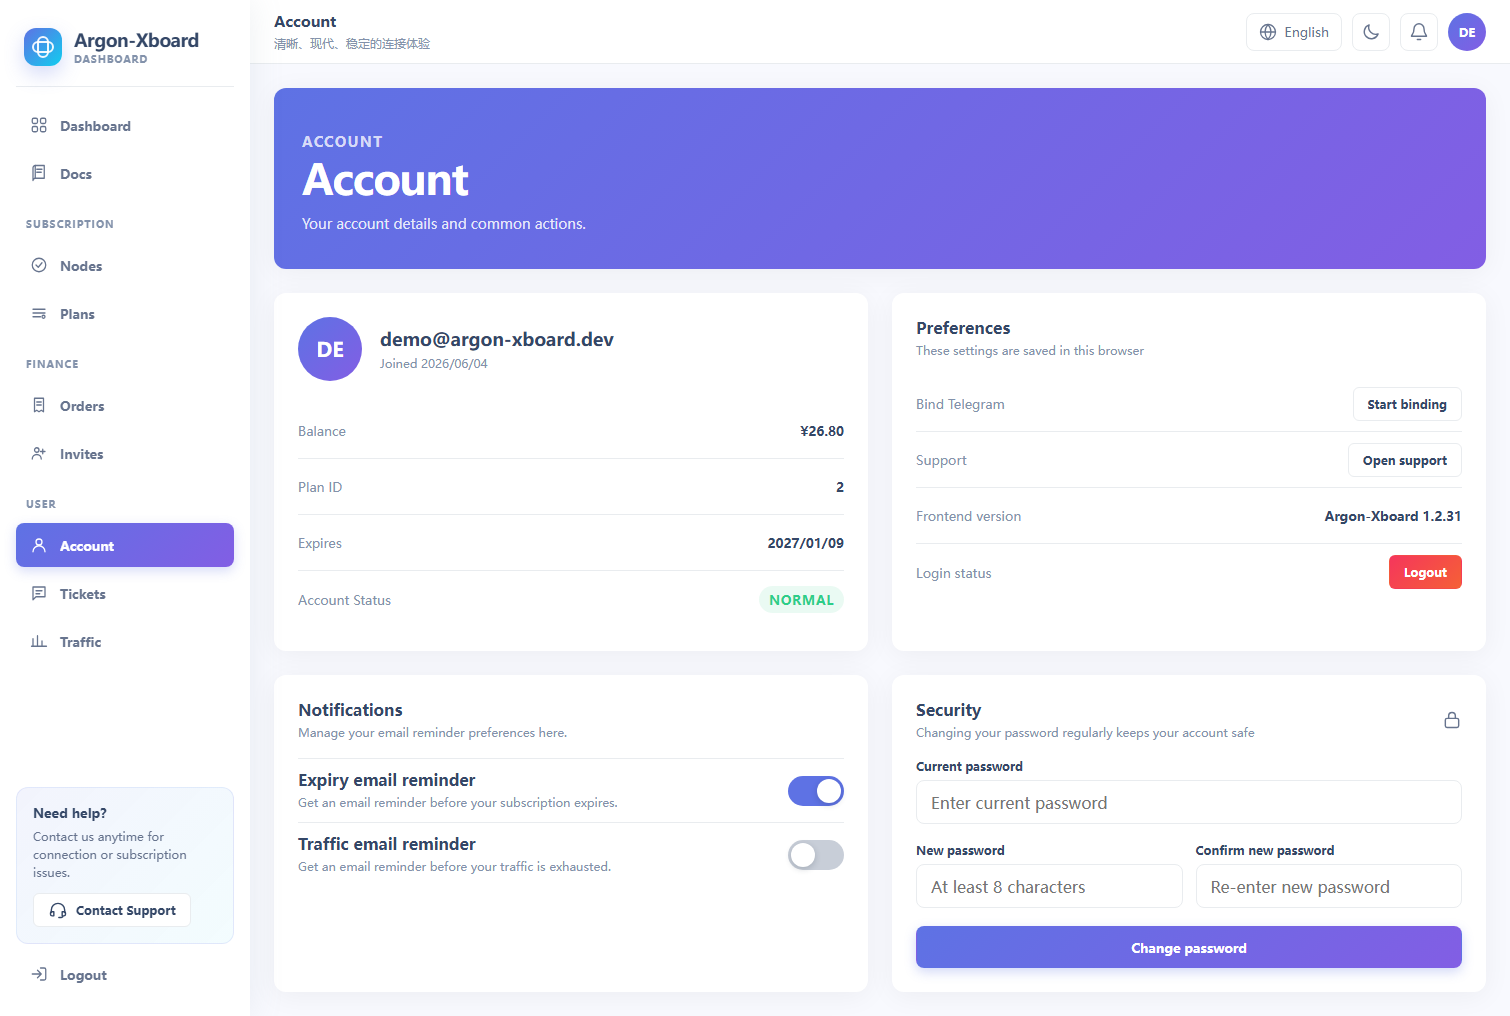
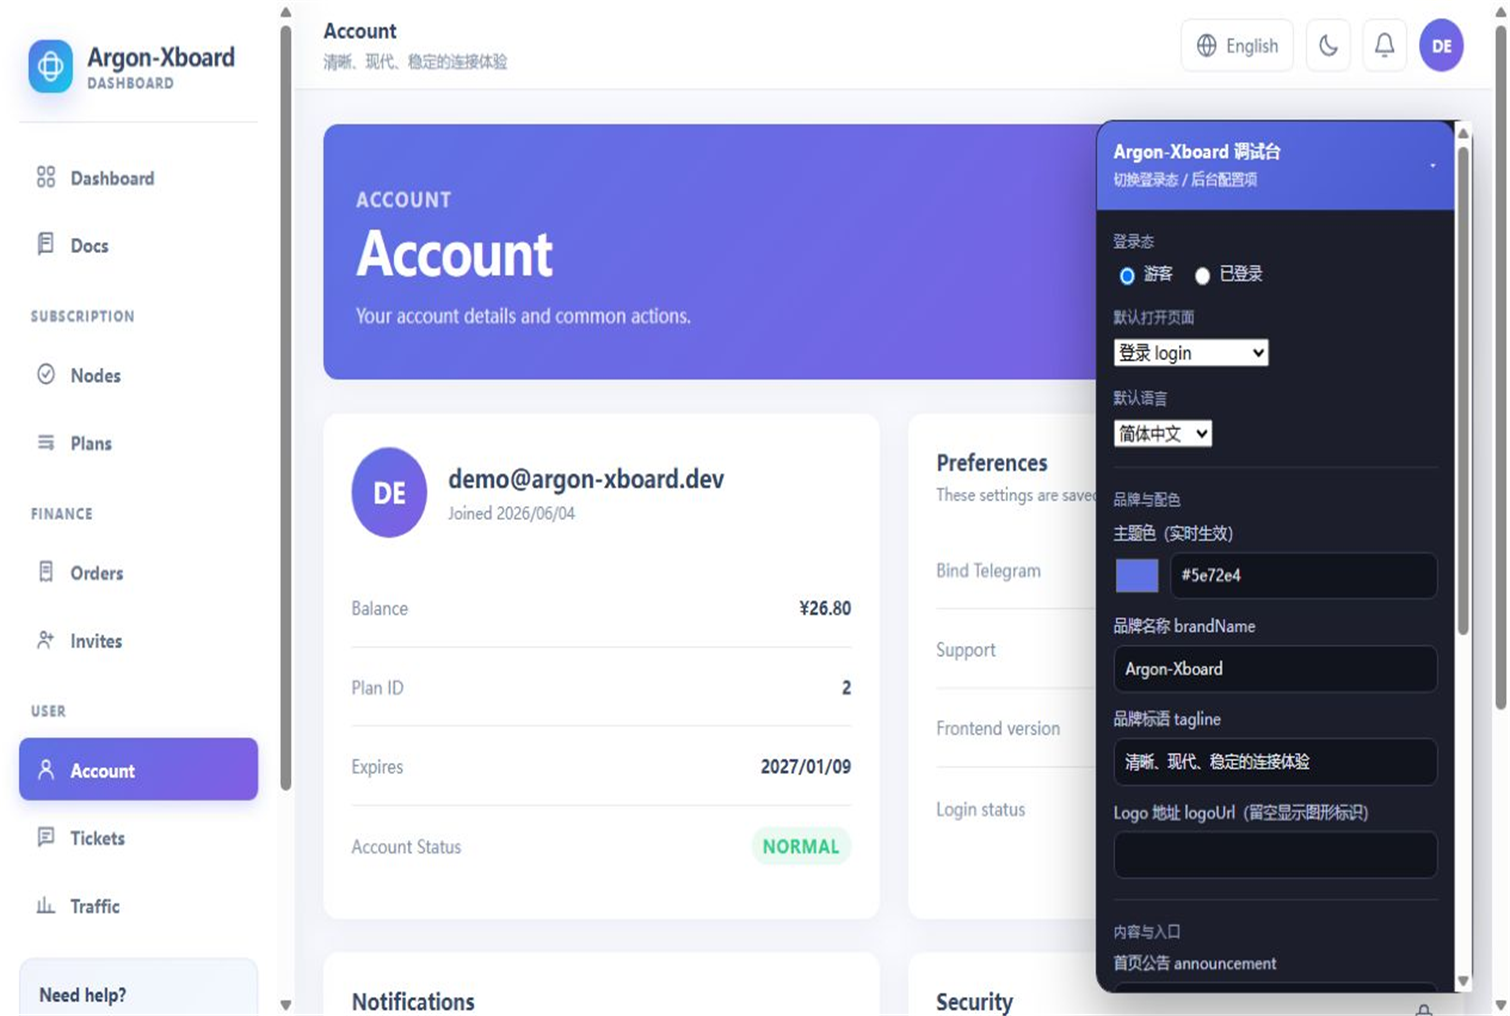
fix(theme): read support group from user config

diff --git a/assets/theme.js b/assets/theme.js
@@ -266,7 +266,7 @@
   const config = Object.assign({
     title: 'Xboard', brandName: 'Argon-Xboard', tagline: t('tagline'),
     primaryColor: '#5e72e4', logoUrl: '', announcement: '', footerText: t('footer_default'),
-    loginCaptchaEnabled: '1', authCaptchaEnabled: '1', frontendVersion: '1.2.31'
+    loginCaptchaEnabled: '1', authCaptchaEnabled: '1', frontendVersion: '1.2.32'
   }, window.XBOARD_THEME || {});
   const isPreview = Boolean(window.NEBULAX_PREVIEW);
   const ASSETS_BASE = (window.XBOARD_ASSETS || './assets').replace(/\/$/, '');
@@ -434,7 +434,7 @@
   }
 
   function backendSupportUrl() {
-    return safeHttpUrl(state.guest?.telegram_discuss_link);
+    return safeHttpUrl(state.appConfig?.telegram_discuss_link);
   }
 
   function renderLink(href, label) {
@@ -806,7 +806,7 @@
       : path.includes('/auth/forget') ? true
       : path.includes('/comm/sendEmailVerify') ? true
       : path.includes('/auth/login') || path.includes('/auth/register') ? { auth_data: 'Bearer preview-token', token: 'preview' }
-      : path.includes('/user/comm/config') ? { is_telegram: 1 }
+      : path.includes('/user/comm/config') ? { is_telegram: 1, telegram_discuss_link: 'https://t.me/argon_preview_group' }
       : path.includes('/user/telegram/getBotInfo') ? { username: 'argon_preview_bot' }
       : path.includes('/user/info') ? { email: 'demo@argon-xboard.dev', balance: 2680, commission_balance: 0, expired_at: now + 86400 * 126, created_at: now - 86400 * 93, plan_id: 2, remind_expire: 1, remind_traffic: 0, telegram_id: null }
       : path.includes('/getSubscribe') ? { plan_id: 2, u: 23 * 1024 ** 3, d: 172 * 1024 ** 3, transfer_enable: 500 * 1024 ** 3, expired_at: now + 86400 * 126, subscribe_url: 'https://example.com/s/nebula-preview', plan: plans[1], device_limit: 8, speed_limit: null, reset_day: 12 }

diff --git a/dashboard.blade.php b/dashboard.blade.php
@@ -9,8 +9,8 @@
   @if (file_exists(public_path("/theme/{$theme}/favicon.ico")))
     <link rel="icon" href="/theme/{{ $theme }}/favicon.ico">
   @endif
-  @php($assetVersionCss = @filemtime(public_path("/theme/{$theme}/assets/theme.css")) ?: ($version ?? '1.2.31'))
-  @php($assetVersionJs = @filemtime(public_path("/theme/{$theme}/assets/theme.js")) ?: ($version ?? '1.2.31'))
+  @php($assetVersionCss = @filemtime(public_path("/theme/{$theme}/assets/theme.css")) ?: ($version ?? '1.2.32'))
+  @php($assetVersionJs = @filemtime(public_path("/theme/{$theme}/assets/theme.js")) ?: ($version ?? '1.2.32'))
   <link rel="stylesheet" href="/theme/{{ $theme }}/assets/theme.css?v={{ $assetVersionCss }}">
 </head>
 <body>

diff --git a/README.md b/README.md
@@ -59,7 +59,7 @@ Argon-Xboard/
 
 ## 安装到 Xboard
 
-1. 下载安装包 [`Argon-Xboard-1.2.31.zip`](https://github.com/panhuanghe/Argon-Xboard/releases/download/v1.2.31/Argon-Xboard-1.2.31.zip)。
+1. 下载安装包 [`Argon-Xboard-1.2.32.zip`](https://github.com/panhuanghe/Argon-Xboard/releases/download/v1.2.32/Argon-Xboard-1.2.32.zip)。
 2. 进入 Xboard 管理后台的「主题」页面，上传该 ZIP。
 3. 切换到 **Argon-Xboard**，按需填写品牌名称、主题色等主题选项；客服群组链接由 Xboard 后台的群组链接统一管控。
 
